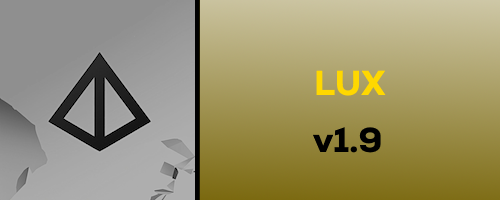
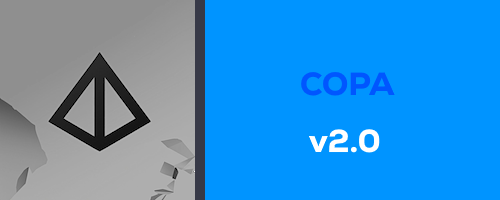
Copa airlines because I had no ideas

diff --git a/Lumina/src/mods/panel.tsx b/Lumina/src/mods/panel.tsx
@@ -1,5 +1,7 @@
 import { ButtonTheme, Tooltip, Button, ConfirmationDialog, Panel, Portal, FloatingButton, PanelSection, PanelSectionRow, FormattedParagraphs, Dropdown, Icon } from "cs2/ui";
 import { bindValue, trigger, useValue, } from "cs2/api";
+import SimpleBar from 'simplebar-react';
+import 'simplebar-react/dist/simplebar.min.css';
 import { game, tool, Theme, } from "cs2/bindings";
 import { getModule, ModuleRegistryExtend } from "cs2/modding";
 import { VanillaComponentResolver } from "classes/VanillaComponentResolver";
@@ -449,6 +451,7 @@ const handleHighlights = (value: number) => {
 
 
 return (
+
   <div className="Global">
 
 
@@ -569,8 +572,9 @@ return (
 
 
 
+   
   <div  className="Panel">
-    
+
 
 
 
@@ -1118,10 +1122,11 @@ className="button_uFa child-opacity-transition_nkS button_uFa child-opacity-tran
     </div>
 
     <div className="LUTSDropdown">
+
                 <LUTSDropdown />
                 
                 <LUTContributionSlider />
-
+            <label className="title_SVH title_zQN lut-contribution-label">{translate("LUMINA.lutcontribution")}</label>
 
                 <Tooltip tooltip={translate("LUMINA.uploadlutbutton")}>
     <OpenFileDialogButton />
@@ -1270,7 +1275,7 @@ className="button_uFa child-opacity-transition_nkS button_uFa child-opacity-tran
 
 
 
-<label className="sun-intensity-label">Sun Intensity</label>
+<label className="sun-intensity-label">{translate("LUMINA.sunintensity")}</label>
 <Slider
     value={SunIntensity}
     start={0}       // Minimum value of the slider
@@ -1305,6 +1310,8 @@ className="button_uFa child-opacity-transition_nkS button_uFa child-opacity-tran
 
 
 
+
 </div>
+
 )}
 

diff --git a/Lumina/src/luminapanel.scss b/Lumina/src/luminapanel.scss
@@ -7,7 +7,7 @@
    background-color: rgba(50, 50, 50, 0.8); /* Dark grey background with transparency */
    backdrop-filter: blur(10px); /* Apply blur to the background behind the panel */
    box-shadow: inset 0 0 20px rgba(0, 0, 0, 0.6); /* Blurred black inner shadow */
-   overflow-y: scroll;
+   overflow-y: auto; /* Enable vertical scrolling */
    max-height: 400rem;
    pointer-events: auto;
    cursor: pointer;
@@ -15,6 +15,16 @@
    color: #e0e0e0; /* Light grey text color for contrast */
    font-family: 'Arial', sans-serif; /* Clean and modern font */
 }
+
+.Panel .simplebar-scrollbar::before {
+   width: 6px; /* Set a smaller width for the thumb */
+   background-color: #3498db;
+ }
+ 
+ .Panel .simplebar-track {
+   width: 6px; /* Adjust track width as well */
+ }
+ 
 
 
  .Span1{
@@ -230,7 +240,11 @@
 
 
 .Global{
-   pointer-events: auto;
+   height: 100%; /* Make sure the body takes up the full height of the viewport */
+   margin: 0; /* Remove any default margin */
+   display: flex; /* Use flexbox for centering */
+   justify-content: center; /* Center horizontally */
+   align-items: center; /* Center vertically */
 }
 
 .ColorWheel {

diff --git a/Lumina/src/mods/Sliders/LutContributionSlider.tsx b/Lumina/src/mods/Sliders/LutContributionSlider.tsx
@@ -2,8 +2,6 @@ import { Slider, SliderValueTransformer } from "mods/slider";
 import './LutContributionSlider.scss';
 import { bindValue, trigger, useValue } from "cs2/api";
 import mod from "./../../../mod.json";
-import { useLocalization } from "cs2/l10n";
-const { translate } = useLocalization();
 
 // Bind value for LUT contribution and export it
 export const GetLutContributionValue$ = bindValue<number>(mod.id, 'GetLutContributionValue');
@@ -47,7 +45,7 @@ export const LUTContributionSlider = () => {
             />
             
             {/* Label for the slider */}
-            <label className="title_SVH title_zQN lut-contribution-label">{translate("LUMINA.lutcontribution")}</label>
+
         </div>
     );
 };

diff --git a/Lumina/webpack.config.js b/Lumina/webpack.config.js
@@ -55,6 +55,7 @@ module.exports = {
           MiniCssExtractPlugin.loader,
           {
             loader: "css-loader",
+            
             options: {
               url: true,
               importLoaders: 1,
@@ -66,6 +67,13 @@ module.exports = {
             },
           },
           "sass-loader",
+        ],
+      },
+      {
+        test: /\.css$/, // This handles plain CSS files like simplebar.min.css
+        use: [
+          MiniCssExtractPlugin.loader,
+          "css-loader"
         ],
       },
       {

diff --git a/XML/GlobalPaths.cs b/XML/GlobalPaths.cs
@@ -67,6 +67,6 @@ namespace Lumina.XML
         /// <summary>
         /// Returns the version.
         /// </summary>
-        public static string Version = "1.9";
+        public static string Version = "2.0";
     }
 }
